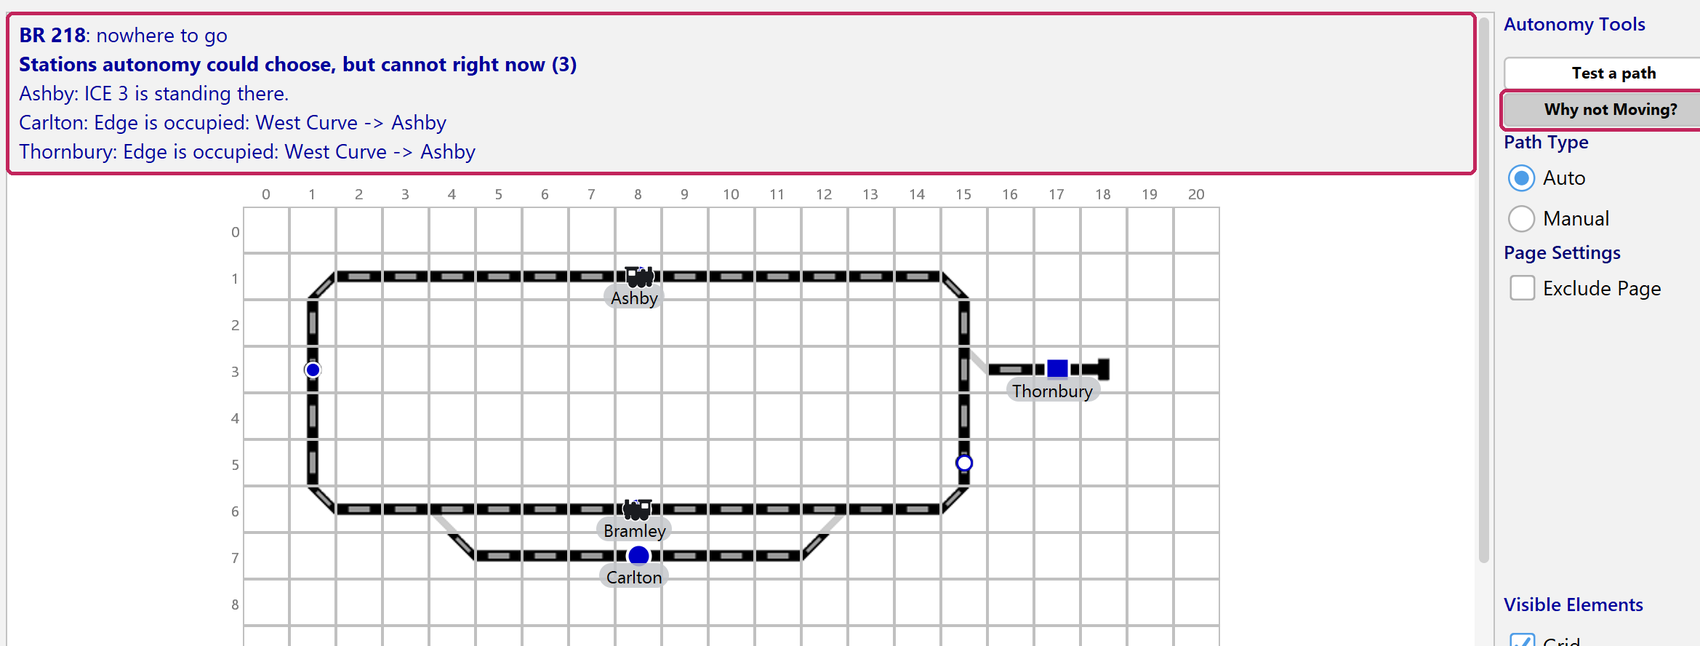
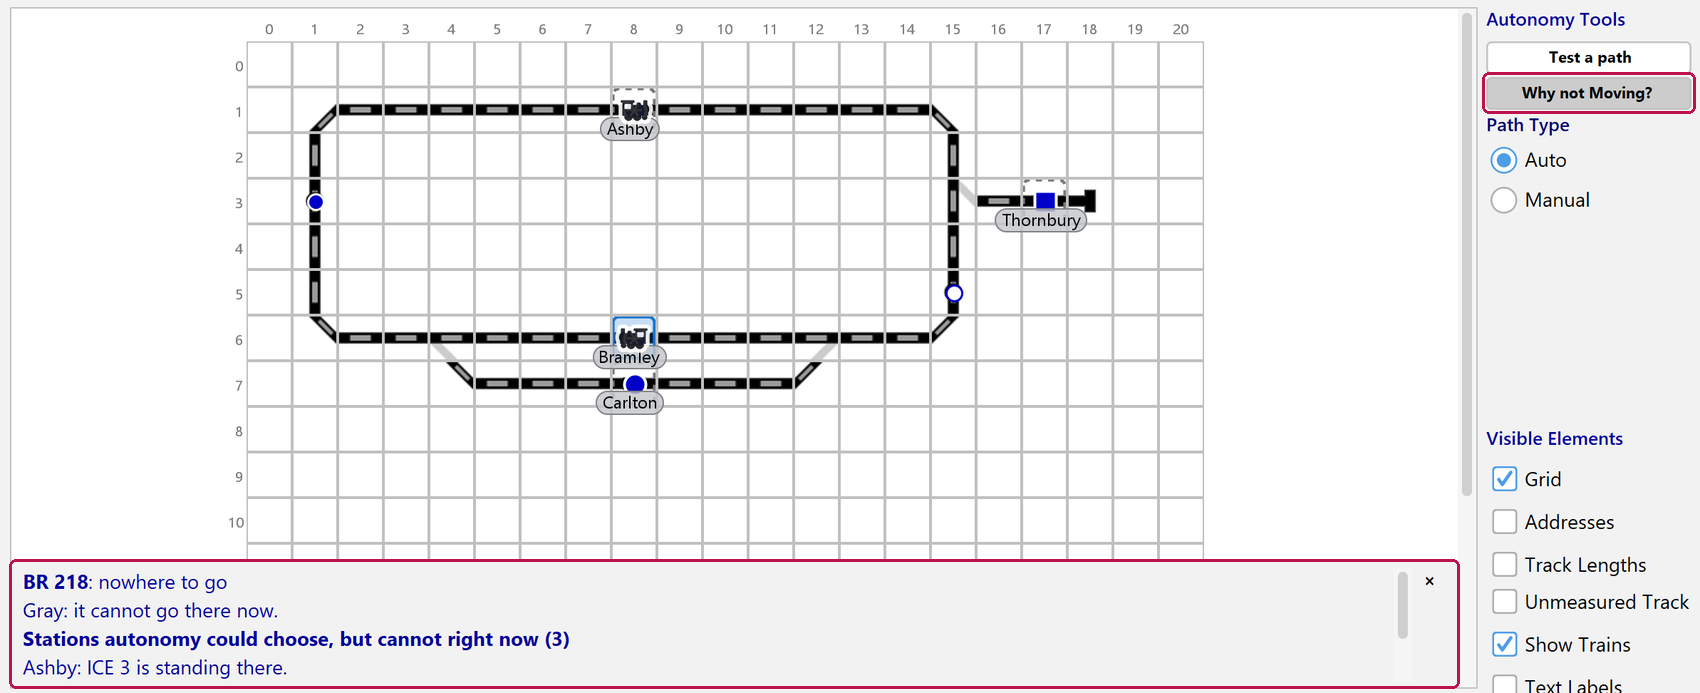
Docs: new switch keyboard, autonomy editor and Why not Moving? pictures

Changed region(s): [[0.0, 0.0, 1.0, 1.0]]

diff --git a/Automation.md b/Automation.md
@@ -242,7 +242,7 @@ A tool stays armed until you press its button again, press Escape, or right-clic
 
 **`Why not Moving?`** answers "why is this train not being sent anywhere?" Click the square a train is standing on: every route it *could* take is drawn on the track, and the stations it cannot go to are listed underneath with the reason for each: occupied and by whom, switched off, excluded, too short, no track at all. A train with somewhere to go draws lines; a train with nowhere draws none. This tool reads the configuration as last **saved**: if you have unsaved changes it says so.
 
-![Why not Moving? on BR 218 at Bramley: nowhere to go, and the reason for each station](assets/automation/08-why-not-moving.png)
+![Why not Moving? on BR 218 at Bramley: nowhere to go, Ashby, Carlton and Thornbury marked gray because it cannot go there now, and the reason for each in the answer strip under the diagram](assets/automation/08-why-not-moving.png)
 
 **`One-Way Run`** (from `Bulk Tools`) closes a stretch of track to one direction in two clicks: click one end of the run, then the far end, and choose `From A to B` or `From B to A`. It stays armed for the next pair.
 
